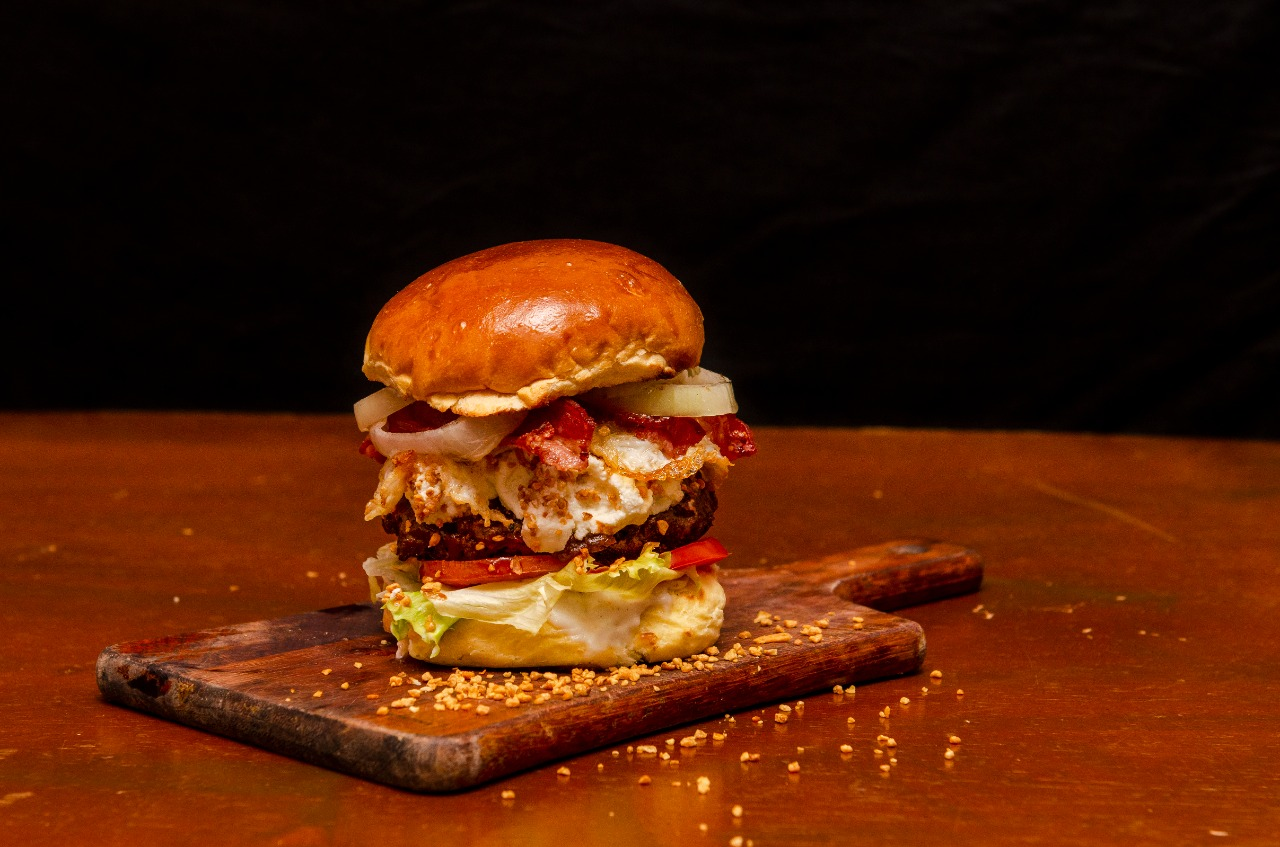
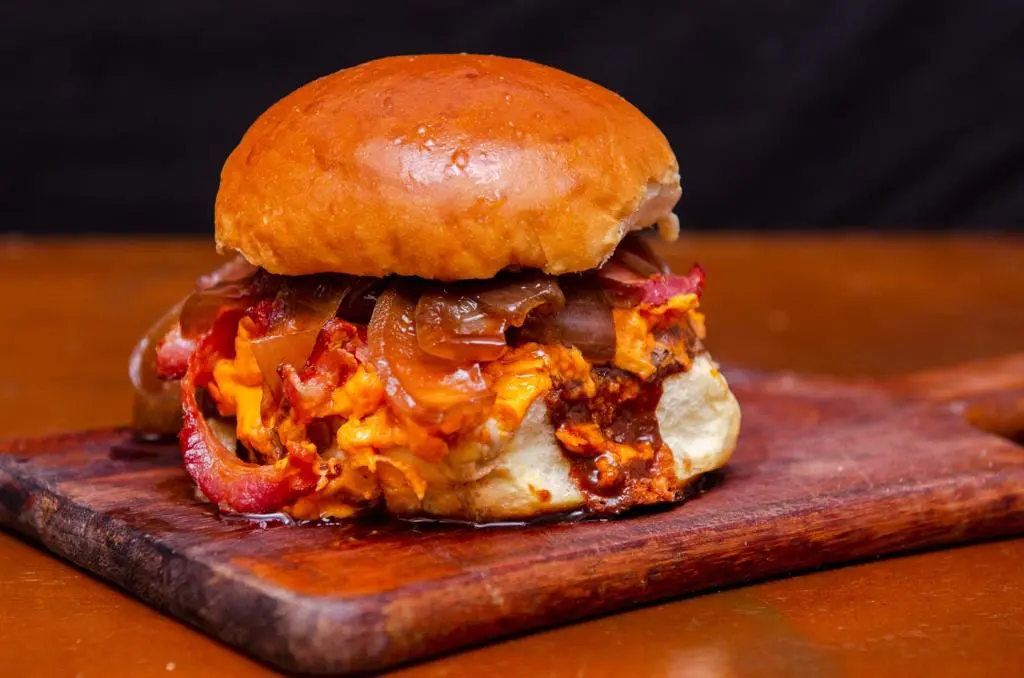
atualizando fotos

diff --git a/src/pages/api/data.ts b/src/pages/api/data.ts
@@ -80,7 +80,7 @@ export default async (req: NextApiRequest, res: NextApiResponse) => {
       name: "Madame",
       type: "Hambúrguer",
       price: 28.0,
-      src: "quatro-queijos.webp",
+      src: "madame.webp",
       ingredients:
         "Pão Brioche Amanteigado, Hambúrguer Artesanal 150g, Medalhão de Queijo Coalho com Bacon, Queijo Branco, Cebola Caramelizada, Tomate Cereja",
     },
@@ -93,7 +93,6 @@ export default async (req: NextApiRequest, res: NextApiResponse) => {
       ingredients:
         "Pão Brioche Amanteigado, Hambúrguer Artesanal 150g, Queijo Branco, Alface Americana, Tomate, Maionese Artesanal",
     },
-
     {
       id: 12,
       name: "Smash Júnior",
@@ -112,7 +111,6 @@ export default async (req: NextApiRequest, res: NextApiResponse) => {
       ingredients:
         "Pão Brioche Amanteigado, Hambúrguer Artesanal 150g, Queijo Branco, Picles, Maionese Artesanal, Mostarda Amarela, Cebola Roxa Fatiada, Tomate, Alface Americana",
     },
-
     {
       id: 14,
       name: "Especial Catupiry",
@@ -122,7 +120,6 @@ export default async (req: NextApiRequest, res: NextApiResponse) => {
       ingredients:
         "Pão de Hot Dog 12cm, 2 Salsichas, Fatias de Calabresa, Catupiry, Bacon, Maionese Artesanal, Batata Palha, Farofa Temperada, Cebola em Cubos, Milho, Tomate, Molho da Casa",
     },
-
     {
       id: 15,
       name: "Bacon Cheddar",
@@ -132,7 +129,6 @@ export default async (req: NextApiRequest, res: NextApiResponse) => {
       ingredients:
         "Pão de Hot Dog 12cm, 2 Salsichas, Cheddar, Bacon, Maionese Artesanal, Batata Palha, Farofa Temperada, Cebola em Cubos, Milho, Tomate, Molho da Casa",
     },
-
     {
       id: 16,
       name: "Bacon Catupiry",
